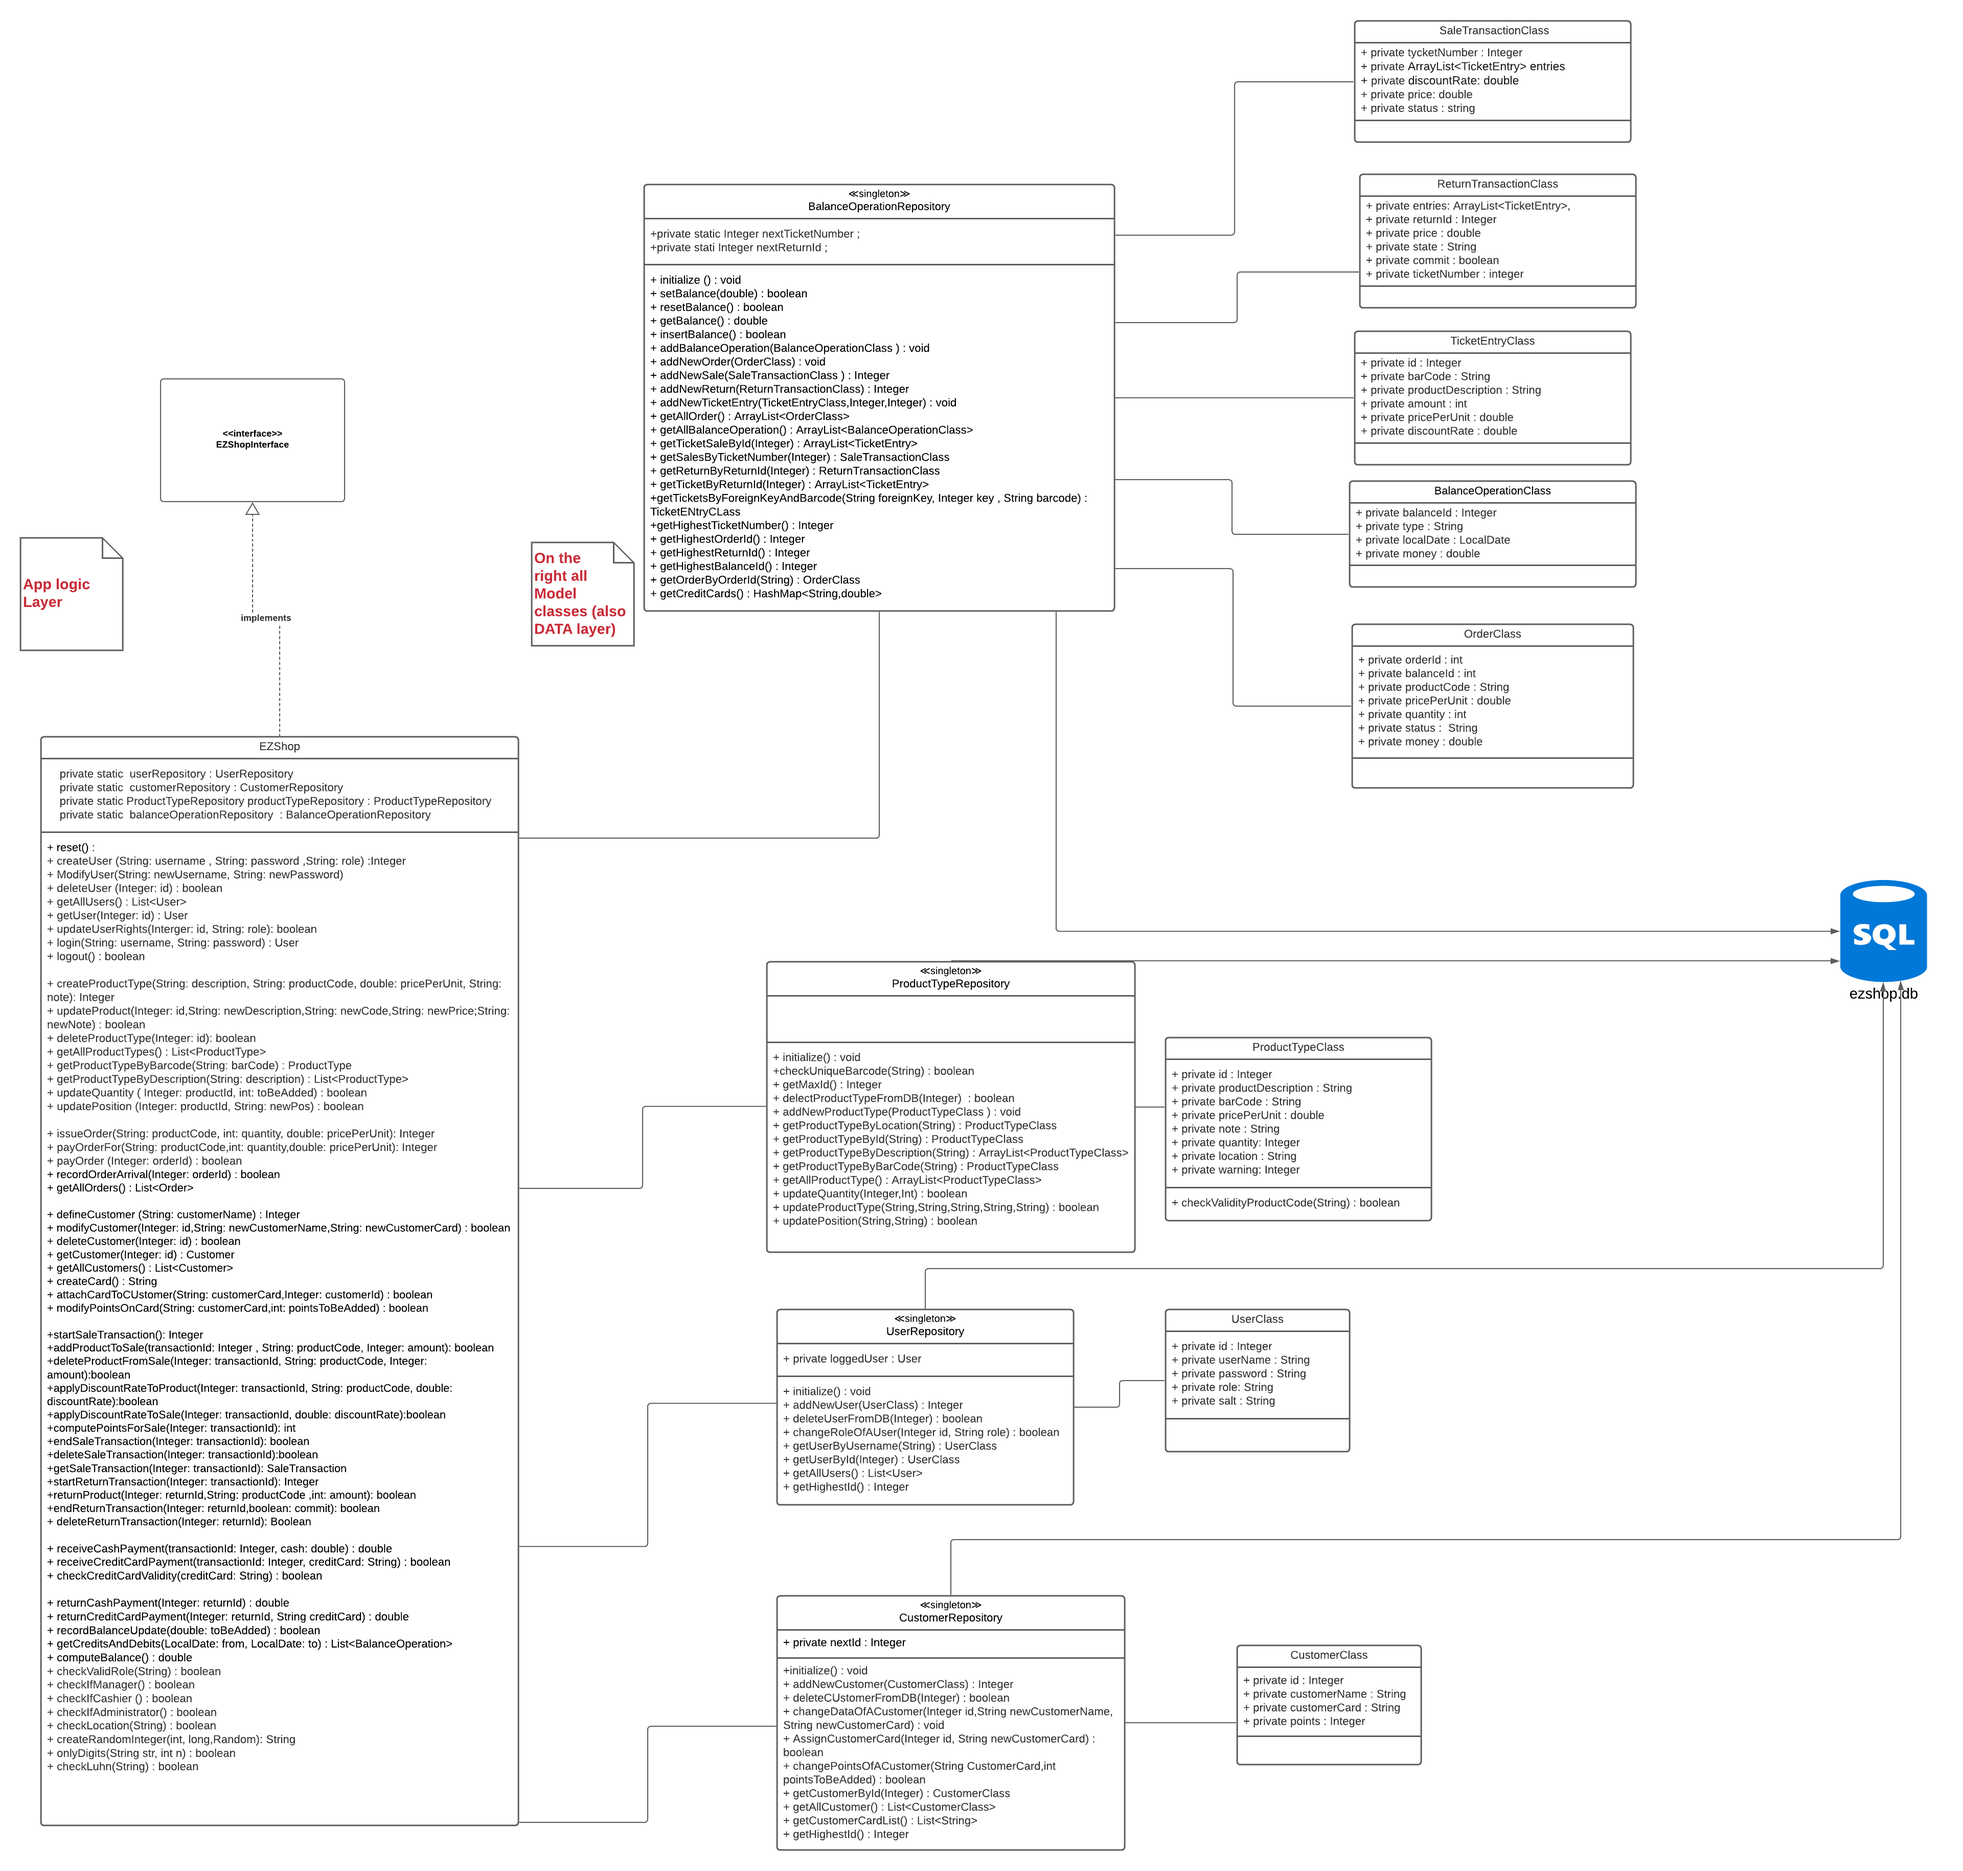
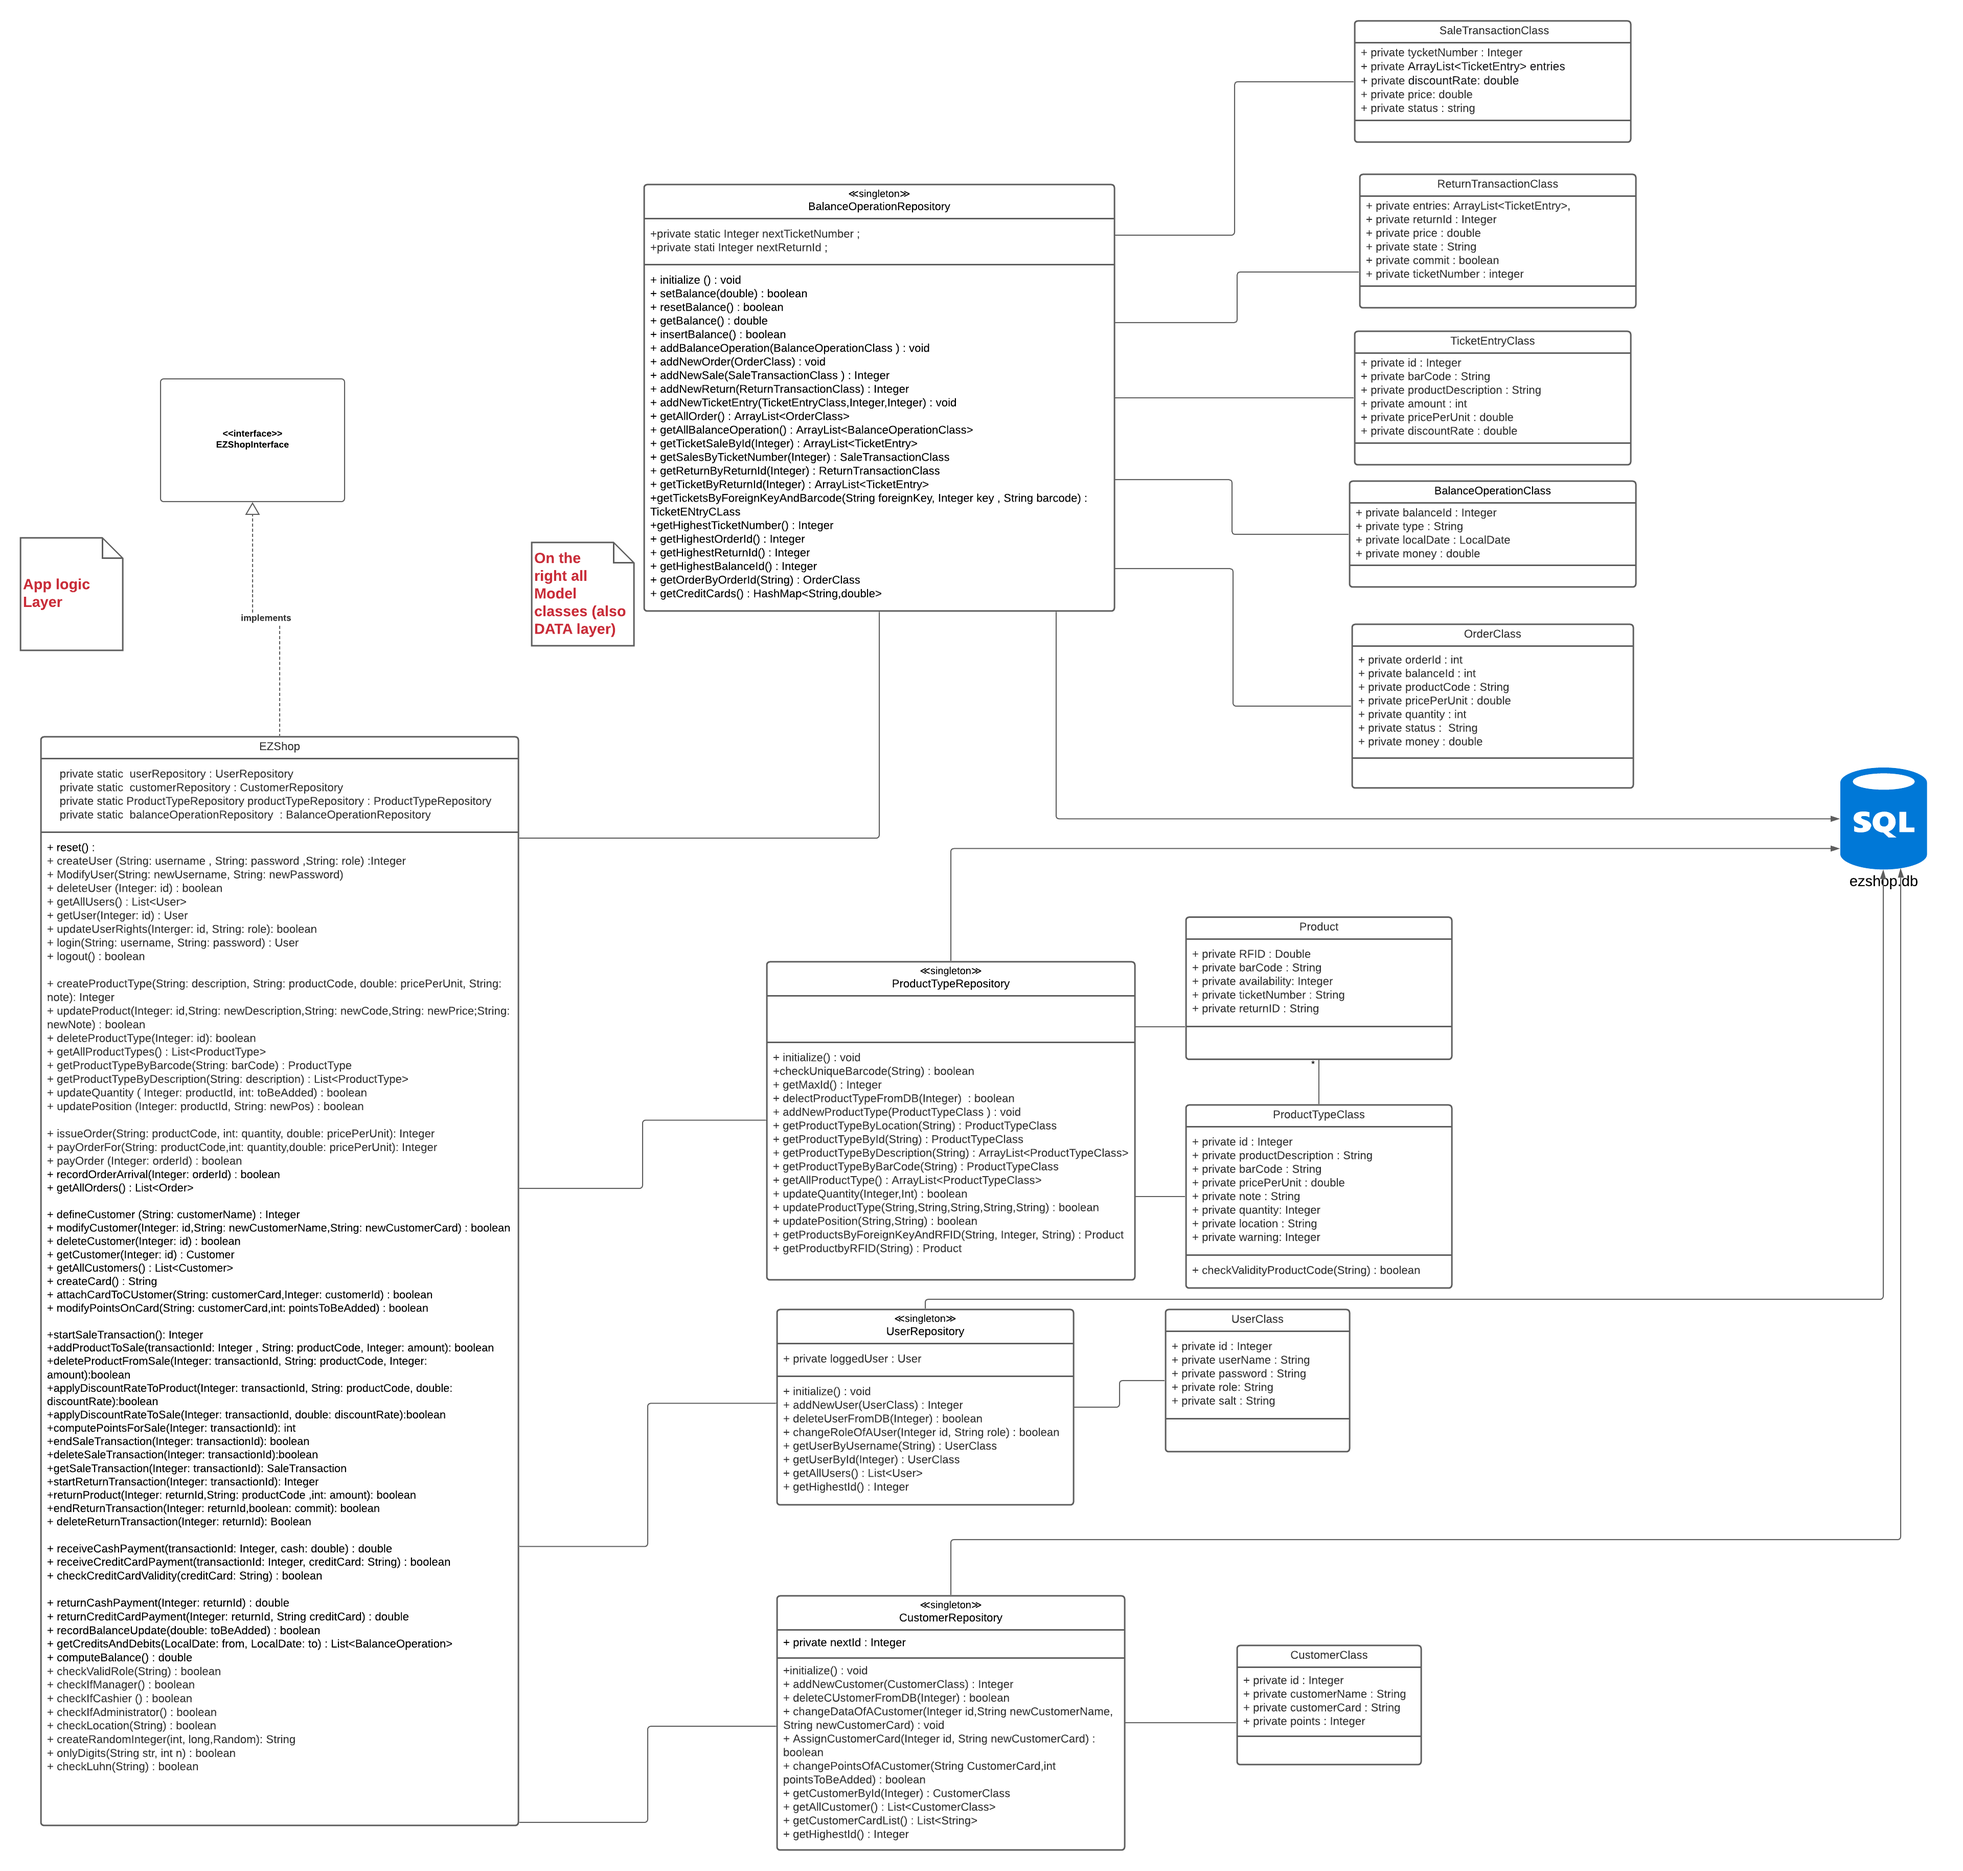
modify design document, make attributes of product private

Changed region(s): [[0.5938, 0.4985, 0.7188, 0.6854], [0.4062, 0.592, 0.5625, 0.6854], [0.9375, 0.405, 1.0, 0.5297]]

diff --git a/src/main/java/it/polito/ezshop/data/model/Product.java b/src/main/java/it/polito/ezshop/data/model/Product.java
@@ -2,11 +2,11 @@ package it.polito.ezshop.data.model;
 
 public class Product {
 	
-	Double RFID ;
-	String barCode;
-	Integer availability;
-	String ticketNumber;
-	String returnID;
+	private Double RFID ;
+	private String barCode;
+	private Integer availability;
+	private String ticketNumber;
+	private String returnID;
 	
 	public Product(Double rFID, String barCode, Integer availability, String ticketNumber, String returnID) {
 		super();
